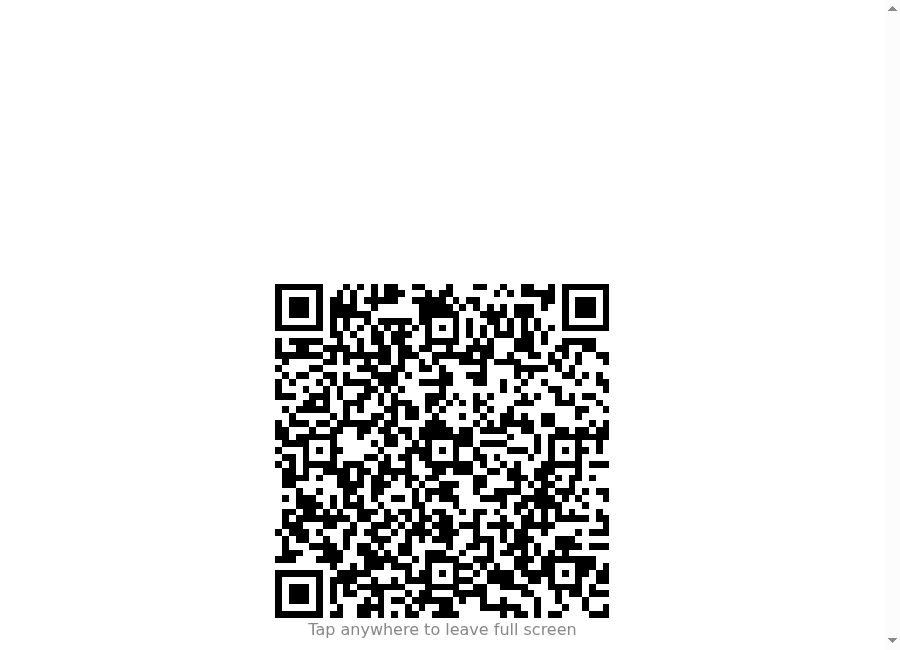
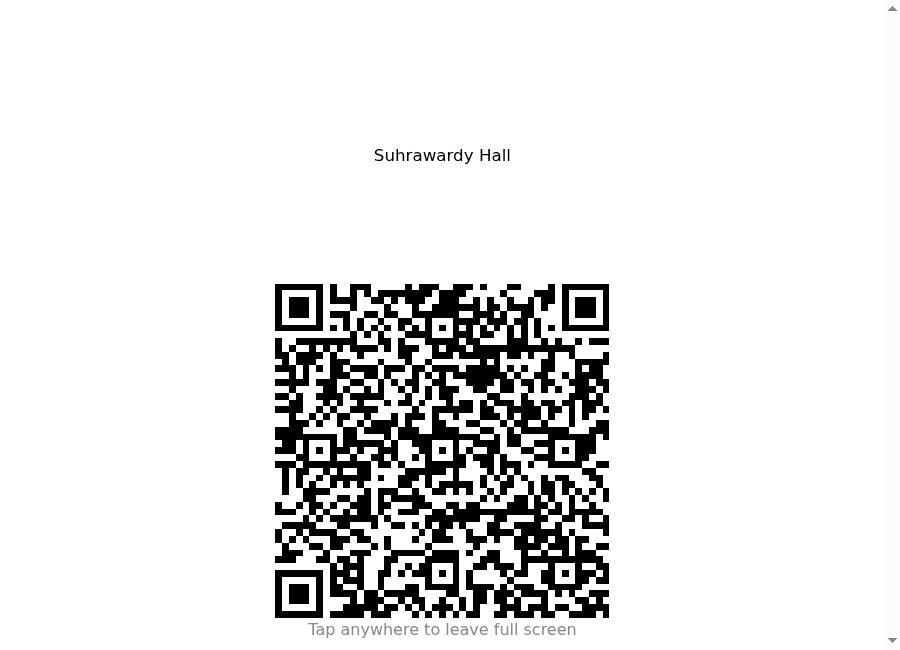
added better documentation

Changed region(s): [[0.28, 0.4308, 0.6844, 0.9538], [0.4044, 0.2154, 0.56, 0.2462]]

diff --git a/badhan-frontend-test/cypress/docs-screenshots/new-feature-new-student-data-collection/registrationWalk.ts b/badhan-frontend-test/cypress/docs-screenshots/new-feature-new-student-data-collection/registrationWalk.ts
@@ -1,10 +1,14 @@
 import {
   answerChoice,
   answerText,
+  confirmLockedHall,
   createDonorViaApi,
   mintTokenViaApi,
+  mintTokenForHallViaApi,
   visitRegistrationPage,
   FeedbackDonor,
+  HALL_ANY,
+  HALL_TITUMIR,
 } from '@support/helpers/feedback';
 
 // Every question in the sequence gets its own documentation screenshot, and only one capture may
@@ -12,9 +16,13 @@ import {
 // step it wants and shoots that one — this module is the walk they share.
 //
 // The counts are answered NON-ZERO on purpose. A zero removes the matching "when did you last
-// donate" step, and the point of these captures is to show all twelve questions, so the two
+// donate" step, and the point of these captures is to show all thirteen questions, so the two
 // conditional ones have to be in the sequence. It also keeps the progress counter consistent from
-// shot to shot: every capture reads "of 12".
+// shot to shot: every capture after the counts reads "of 13".
+//
+// The walk uses a code made for ONE named hall, which is the ordinary case: the hall step then
+// renders as a disabled field showing that hall. Pass `{ allHalls: true }` to walk an "All Halls"
+// code instead, where the same step is a real question.
 
 const STUDENT = {
   name: 'Sadia Afrin',
@@ -41,11 +49,15 @@ const answerDate = (field: string): void => {
 
 // Answers every step BEFORE `stopBefore` and leaves the page sitting on it. Pass 'review' to walk
 // the whole sequence and land on the review screen.
-const ANSWER_STEP: { [field: string]: () => void } = {
+const ANSWER_STEP: { [field: string]: (allHalls: boolean) => void } = {
   name: () => answerText('name', STUDENT.name),
   studentId: () => answerText('studentId', STUDENT.studentId),
   phone: () => answerText('phone', STUDENT.localPhone),
   bloodGroup: () => answerChoice('bloodGroup', STUDENT.bloodGroup),
+  // The one step that renders two ways: a disabled field under an ordinary code, a real question
+  // under an All Halls one.
+  hall: (allHalls: boolean) =>
+    allHalls ? answerChoice('hall', HALL_TITUMIR) : confirmLockedHall('Suhrawardy Hall'),
   donationCount: () => answerText('donationCount', STUDENT.donationCount),
   lastDonation: () => answerDate('lastDonation'),
   plateletDonationCount: () => answerText('plateletDonationCount', STUDENT.plateletDonationCount),
@@ -60,16 +72,25 @@ export const STEP_ORDER = Object.keys(ANSWER_STEP);
 
 // `minterStudentId` only has to be unique across the specs in this folder — it belongs to the donor
 // whose credentials mint the token, not to the student being registered.
-export const walkTo = (stopBefore: string, minterStudentId: string): void => {
+export const walkTo = (
+  stopBefore: string,
+  minterStudentId: string,
+  options: { allHalls?: boolean } = {},
+): void => {
+  const allHalls = options.allHalls === true;
   createDonorViaApi({ name: 'Token Minter', studentId: minterStudentId }, 'minter');
 
   cy.get<FeedbackDonor>('@minter').then((minter) => {
-    mintTokenViaApi(minter.phone, minter.studentId).then((token) => {
-      visitRegistrationPage(token);
+    const token = allHalls
+      ? mintTokenForHallViaApi(minter.phone, minter.studentId, HALL_ANY)
+      : mintTokenViaApi(minter.phone, minter.studentId);
+
+    token.then((t) => {
+      visitRegistrationPage(t);
 
       for (const field of STEP_ORDER) {
         if (field === stopBefore) return;
-        ANSWER_STEP[field]();
+        ANSWER_STEP[field](allHalls);
       }
     });
   });

diff --git a/badhan-frontend-test/cypress/docs-screenshots/new-feature-new-student-data-collection/03b-all-halls-code.cy.ts b/badhan-frontend-test/cypress/docs-screenshots/new-feature-new-student-data-collection/03b-all-halls-code.cy.ts
@@ -5,29 +5,32 @@ import { hideOverlays } from '../hideOverlays';
 
 // Documentation screenshot for docs/blog/new-feature-new-student-data-collection.md.
 // ONE cy.screenshot() per spec file — see 01-sidebar-entry.cy.ts.
+//
+// An All Halls code, generated. Two things are worth photographing together: the line warning that
+// students will be asked which hall they are in, and the sheet itself saying "All Halls" where an
+// ordinary code names a hall.
 
-describe('docs screenshot — a generated registration code', () => {
+describe('docs screenshot — a generated All Halls code', () => {
   const signInPage = new SignInPage();
   const drawer = new NavigationDrawer();
 
-  it('captures the code under its expiry line', () => {
-    // Tall enough for the expiry line and the whole sheet beneath it — the artwork is
-    // A4-proportioned, so it is about 1.4x as tall as the container is wide.
+  it('captures the All Halls notice and the code labelled All Halls', () => {
     cy.viewport(500, 900);
     cy.visit('/');
     signInPage.signIn(AUTH_CREDENTIALS.phone, AUTH_CREDENTIALS.password);
     drawer.goToRegistrationQr();
 
+    cy.get('[data-cy="registrationQrHallSelector"]').click();
+    cy.contains('.v-menu__content.menuable__content__active .v-list-item', 'All Halls').click();
+    cy.get('[data-cy="registrationQrAllHallsNotice"]').should('be.visible');
     cy.get('[data-cy="registrationQrGenerateButton"]').click();
-    // The expiry line sits ABOVE the artwork and the buttons sit below it, so no single frame holds
-    // both. This one is anchored on the expiry; 12-generated-link.cy.ts captures the other end.
-    // The offset keeps the line clear of the fixed app bar; scrollIntoView on its own puts it at
-    // y=0, underneath it, and the capture then shows a half-eaten sentence.
+
+    cy.get('[data-cy="feedbackQrHallLine"]').should('exist');
     cy.get('[data-cy="registrationQrExpiry"]')
       .should('be.visible')
       .scrollIntoView({ offset: { top: -100, left: 0 } });
     hideOverlays();
     cy.wait(1500);
-    cy.screenshot('registration-generated-code', { capture: 'viewport' });
+    cy.screenshot('registration-all-halls-code', { capture: 'viewport' });
   });
 });

diff --git a/badhan-frontend-test/cypress/docs-screenshots/new-feature-new-student-data-collection/02b-hall-dropdown.cy.ts b/badhan-frontend-test/cypress/docs-screenshots/new-feature-new-student-data-collection/02b-hall-dropdown.cy.ts
@@ -1,0 +1,35 @@
+import { SignInPage } from '@pages/SignInPage';
+import { NavigationDrawer } from '@pages/NavigationDrawer';
+import { AUTH_CREDENTIALS } from '@auth/credentials';
+import { hideOverlays } from '../hideOverlays';
+
+// Documentation screenshot for docs/blog/new-feature-new-student-data-collection.md.
+// ONE cy.screenshot() per spec file — see 01-sidebar-entry.cy.ts.
+//
+// The open hall dropdown, which only a super admin sees. Signed in as one here, so the capture
+// shows what the blog describes: every hall, plus one option that is not a hall at all.
+
+describe('docs screenshot — the hall dropdown, open', () => {
+  const signInPage = new SignInPage();
+  const drawer = new NavigationDrawer();
+
+  it('captures the hall list including All Halls', () => {
+    cy.viewport(500, 900);
+    cy.visit('/');
+    signInPage.signIn(AUTH_CREDENTIALS.phone, AUTH_CREDENTIALS.password);
+    drawer.goToRegistrationQr();
+
+    const openMenu = '.v-menu__content.menuable__content__active';
+    cy.get('[data-cy="registrationQrHallSelector"]').should('be.visible').click();
+    cy.get(openMenu).should('be.visible');
+
+    // The menu has its own max-height and scrolls internally, so a taller viewport does not bring
+    // the ninth item into view — All Halls sits below the fold of the list itself. Scroll the list,
+    // not the page. The capture then shows the bottom of it, which is the half that matters here.
+    cy.get(openMenu).scrollTo('bottom');
+    cy.contains(`${openMenu} .v-list-item`, 'All Halls').should('be.visible');
+    hideOverlays();
+    cy.wait(1500);
+    cy.screenshot('registration-hall-dropdown', { capture: 'viewport' });
+  });
+});

diff --git a/badhan-frontend-test/cypress/docs-screenshots/new-feature-new-student-data-collection/q09-lastPlateletDonation.cy.ts b/badhan-frontend-test/cypress/docs-screenshots/new-feature-new-student-data-collection/q09-lastPlateletDonation.cy.ts
@@ -1,13 +1,13 @@
 import { walkTo } from './registrationWalk';
 import { hideOverlays } from '../hideOverlays';
 
-// Documentation screenshot for docs/blog/new-feature-new-student-data-collection.md — question 8
+// Documentation screenshot for docs/blog/new-feature-new-student-data-collection.md — question 9
 // of the registration sequence. Conditional on the platelet count, exactly as lastDonation is on the blood one.
 //
 // ONE cy.screenshot() per spec file — see 01-sidebar-entry.cy.ts. The step is captured as it
 // ARRIVES, before it is answered, which is what a student actually sees.
 
-describe('docs screenshot — registration question 8 (lastPlateletDonation)', () => {
+describe('docs screenshot — registration question 9 (lastPlateletDonation)', () => {
   it('captures the lastPlateletDonation step on its own', () => {
     cy.viewport(393, 700);
     walkTo('lastPlateletDonation', '1905208');
@@ -15,6 +15,6 @@ describe('docs screenshot — registration question 8 (lastPlateletDonation)', (
     cy.get('[data-cy="registrationStep-lastPlateletDonation"]').should('be.visible');
     hideOverlays();
     cy.wait(1500);
-    cy.get('[data-cy="registrationStep-lastPlateletDonation"]').screenshot('registration-q08-lastPlateletDonation');
+    cy.get('[data-cy="registrationStep-lastPlateletDonation"]').screenshot('registration-q09-lastPlateletDonation');
   });
 });

diff --git a/badhan-frontend-test/cypress/docs-screenshots/new-feature-new-student-data-collection/q08-plateletDonationCount.cy.ts b/badhan-frontend-test/cypress/docs-screenshots/new-feature-new-student-data-collection/q08-plateletDonationCount.cy.ts
@@ -1,13 +1,13 @@
 import { walkTo } from './registrationWalk';
 import { hideOverlays } from '../hideOverlays';
 
-// Documentation screenshot for docs/blog/new-feature-new-student-data-collection.md — question 7
+// Documentation screenshot for docs/blog/new-feature-new-student-data-collection.md — question 8
 // of the registration sequence. The platelet half of the pair, with the same Skip-means-zero rule.
 //
 // ONE cy.screenshot() per spec file — see 01-sidebar-entry.cy.ts. The step is captured as it
 // ARRIVES, before it is answered, which is what a student actually sees.
 
-describe('docs screenshot — registration question 7 (plateletDonationCount)', () => {
+describe('docs screenshot — registration question 8 (plateletDonationCount)', () => {
   it('captures the plateletDonationCount step on its own', () => {
     cy.viewport(393, 700);
     walkTo('plateletDonationCount', '1905207');
@@ -15,6 +15,6 @@ describe('docs screenshot — registration question 7 (plateletDonationCount)', 
     cy.get('[data-cy="registrationStep-plateletDonationCount"]').should('be.visible');
     hideOverlays();
     cy.wait(1500);
-    cy.get('[data-cy="registrationStep-plateletDonationCount"]').screenshot('registration-q07-plateletDonationCount');
+    cy.get('[data-cy="registrationStep-plateletDonationCount"]').screenshot('registration-q08-plateletDonationCount');
   });
 });

diff --git a/badhan-frontend-test/cypress/docs-screenshots/new-feature-new-student-data-collection/q06-donationCount.cy.ts b/badhan-frontend-test/cypress/docs-screenshots/new-feature-new-student-data-collection/q06-donationCount.cy.ts
@@ -1,13 +1,13 @@
 import { walkTo } from './registrationWalk';
 import { hideOverlays } from '../hideOverlays';
 
-// Documentation screenshot for docs/blog/new-feature-new-student-data-collection.md — question 5
+// Documentation screenshot for docs/blog/new-feature-new-student-data-collection.md — question 6
 // of the registration sequence. Optional, and a Skip here sends zero — which also removes the date question that follows.
 //
 // ONE cy.screenshot() per spec file — see 01-sidebar-entry.cy.ts. The step is captured as it
 // ARRIVES, before it is answered, which is what a student actually sees.
 
-describe('docs screenshot — registration question 5 (donationCount)', () => {
+describe('docs screenshot — registration question 6 (donationCount)', () => {
   it('captures the donationCount step on its own', () => {
     cy.viewport(393, 700);
     walkTo('donationCount', '1905205');
@@ -15,6 +15,6 @@ describe('docs screenshot — registration question 5 (donationCount)', () => {
     cy.get('[data-cy="registrationStep-donationCount"]').should('be.visible');
     hideOverlays();
     cy.wait(1500);
-    cy.get('[data-cy="registrationStep-donationCount"]').screenshot('registration-q05-donationCount');
+    cy.get('[data-cy="registrationStep-donationCount"]').screenshot('registration-q06-donationCount');
   });
 });

diff --git a/badhan-frontend-test/cypress/docs-screenshots/new-feature-new-student-data-collection/q12-availableToAll.cy.ts b/badhan-frontend-test/cypress/docs-screenshots/new-feature-new-student-data-collection/q12-availableToAll.cy.ts
@@ -1,13 +1,13 @@
 import { walkTo } from './registrationWalk';
 import { hideOverlays } from '../hideOverlays';
 
-// Documentation screenshot for docs/blog/new-feature-new-student-data-collection.md — question 11
+// Documentation screenshot for docs/blog/new-feature-new-student-data-collection.md — question 12
 // of the registration sequence. A yes/no choice, with one line explaining what saying yes means.
 //
 // ONE cy.screenshot() per spec file — see 01-sidebar-entry.cy.ts. The step is captured as it
 // ARRIVES, before it is answered, which is what a student actually sees.
 
-describe('docs screenshot — registration question 11 (availableToAll)', () => {
+describe('docs screenshot — registration question 12 (availableToAll)', () => {
   it('captures the availableToAll step on its own', () => {
     cy.viewport(393, 700);
     walkTo('availableToAll', '1905211');
@@ -15,6 +15,6 @@ describe('docs screenshot — registration question 11 (availableToAll)', () => 
     cy.get('[data-cy="registrationStep-availableToAll"]').should('be.visible');
     hideOverlays();
     cy.wait(1500);
-    cy.get('[data-cy="registrationStep-availableToAll"]').screenshot('registration-q11-availableToAll');
+    cy.get('[data-cy="registrationStep-availableToAll"]').screenshot('registration-q12-availableToAll');
   });
 });

diff --git a/badhan-frontend-test/cypress/docs-screenshots/new-feature-new-student-data-collection/q07-lastDonation.cy.ts b/badhan-frontend-test/cypress/docs-screenshots/new-feature-new-student-data-collection/q07-lastDonation.cy.ts
@@ -1,13 +1,13 @@
 import { walkTo } from './registrationWalk';
 import { hideOverlays } from '../hideOverlays';
 
-// Documentation screenshot for docs/blog/new-feature-new-student-data-collection.md — question 6
+// Documentation screenshot for docs/blog/new-feature-new-student-data-collection.md — question 7
 // of the registration sequence. Conditional: it only appears because the previous count was answered non-zero.
 //
 // ONE cy.screenshot() per spec file — see 01-sidebar-entry.cy.ts. The step is captured as it
 // ARRIVES, before it is answered, which is what a student actually sees.
 
-describe('docs screenshot — registration question 6 (lastDonation)', () => {
+describe('docs screenshot — registration question 7 (lastDonation)', () => {
   it('captures the lastDonation step on its own', () => {
     cy.viewport(393, 700);
     walkTo('lastDonation', '1905206');
@@ -15,6 +15,6 @@ describe('docs screenshot — registration question 6 (lastDonation)', () => {
     cy.get('[data-cy="registrationStep-lastDonation"]').should('be.visible');
     hideOverlays();
     cy.wait(1500);
-    cy.get('[data-cy="registrationStep-lastDonation"]').screenshot('registration-q06-lastDonation');
+    cy.get('[data-cy="registrationStep-lastDonation"]').screenshot('registration-q07-lastDonation');
   });
 });

diff --git a/badhan-frontend-test/cypress/docs-screenshots/new-feature-new-student-data-collection/q10-roomNumber.cy.ts b/badhan-frontend-test/cypress/docs-screenshots/new-feature-new-student-data-collection/q10-roomNumber.cy.ts
@@ -1,13 +1,13 @@
 import { walkTo } from './registrationWalk';
 import { hideOverlays } from '../hideOverlays';
 
-// Documentation screenshot for docs/blog/new-feature-new-student-data-collection.md — question 9
+// Documentation screenshot for docs/blog/new-feature-new-student-data-collection.md — question 10
 // of the registration sequence. Optional, so it carries a Skip control of its own rather than an empty Next.
 //
 // ONE cy.screenshot() per spec file — see 01-sidebar-entry.cy.ts. The step is captured as it
 // ARRIVES, before it is answered, which is what a student actually sees.
 
-describe('docs screenshot — registration question 9 (roomNumber)', () => {
+describe('docs screenshot — registration question 10 (roomNumber)', () => {
   it('captures the roomNumber step on its own', () => {
     cy.viewport(393, 700);
     walkTo('roomNumber', '1905209');
@@ -15,6 +15,6 @@ describe('docs screenshot — registration question 9 (roomNumber)', () => {
     cy.get('[data-cy="registrationStep-roomNumber"]').should('be.visible');
     hideOverlays();
     cy.wait(1500);
-    cy.get('[data-cy="registrationStep-roomNumber"]').screenshot('registration-q09-roomNumber');
+    cy.get('[data-cy="registrationStep-roomNumber"]').screenshot('registration-q10-roomNumber');
   });
 });

diff --git a/badhan-frontend-test/cypress/docs-screenshots/new-feature-new-student-data-collection/q13-comment.cy.ts b/badhan-frontend-test/cypress/docs-screenshots/new-feature-new-student-data-collection/q13-comment.cy.ts
@@ -1,13 +1,13 @@
 import { walkTo } from './registrationWalk';
 import { hideOverlays } from '../hideOverlays';
 
-// Documentation screenshot for docs/blog/new-feature-new-student-data-collection.md — question 12
+// Documentation screenshot for docs/blog/new-feature-new-student-data-collection.md — question 13
 // of the registration sequence. The catch-all, and where a student writes which hall they actually live in.
 //
 // ONE cy.screenshot() per spec file — see 01-sidebar-entry.cy.ts. The step is captured as it
 // ARRIVES, before it is answered, which is what a student actually sees.
 
-describe('docs screenshot — registration question 12 (comment)', () => {
+describe('docs screenshot — registration question 13 (comment)', () => {
   it('captures the comment step on its own', () => {
     cy.viewport(393, 700);
     walkTo('comment', '1905212');
@@ -15,6 +15,6 @@ describe('docs screenshot — registration question 12 (comment)', () => {
     cy.get('[data-cy="registrationStep-comment"]').should('be.visible');
     hideOverlays();
     cy.wait(1500);
-    cy.get('[data-cy="registrationStep-comment"]').screenshot('registration-q12-comment');
+    cy.get('[data-cy="registrationStep-comment"]').screenshot('registration-q13-comment');
   });
 });

diff --git a/badhan-frontend-test/cypress/docs-screenshots/new-feature-new-student-data-collection/08-review-screen.cy.ts b/badhan-frontend-test/cypress/docs-screenshots/new-feature-new-student-data-collection/08-review-screen.cy.ts
@@ -9,10 +9,13 @@ import { hideOverlays } from '../hideOverlays';
 
 describe('docs screenshot — the review screen', () => {
   it('captures every answer, the hall line and the Submit button', () => {
-    // Wide enough that no question wraps and tall enough for all twelve rows plus Submit: an
-    // element taller than the viewport gets clipped, not stitched, so the frame has to fit it.
-    cy.viewport(1000, 1200);
-    // 'review' is not a step, so the walk answers all twelve questions and lands here — including
+    // Wide enough that no question wraps. It is NOT tall enough for all thirteen rows and cannot
+    // be: an element capture is capped at roughly the headless window height whatever the viewport
+    // says, and it clips rather than stitches. So this frame carries the top — the heading, the
+    // hall line and the first answers — and 08b-review-submit.cy.ts carries the end of the table
+    // and the buttons. The two overlap by a few rows on purpose.
+    cy.viewport(1000, 1300);
+    // 'review' is not a step, so the walk answers all thirteen questions and lands here — including
     // the two conditional dates, so the screen shows the full sequence rather than a short one.
     walkTo('review', '1905221');
 

diff --git a/badhan-frontend-test/cypress/docs-screenshots/new-feature-new-student-data-collection/q11-address.cy.ts b/badhan-frontend-test/cypress/docs-screenshots/new-feature-new-student-data-collection/q11-address.cy.ts
@@ -1,13 +1,13 @@
 import { walkTo } from './registrationWalk';
 import { hideOverlays } from '../hideOverlays';
 
-// Documentation screenshot for docs/blog/new-feature-new-student-data-collection.md — question 10
+// Documentation screenshot for docs/blog/new-feature-new-student-data-collection.md — question 11
 // of the registration sequence. Optional in the same way.
 //
 // ONE cy.screenshot() per spec file — see 01-sidebar-entry.cy.ts. The step is captured as it
 // ARRIVES, before it is answered, which is what a student actually sees.
 
-describe('docs screenshot — registration question 10 (address)', () => {
+describe('docs screenshot — registration question 11 (address)', () => {
   it('captures the address step on its own', () => {
     cy.viewport(393, 700);
     walkTo('address', '1905210');
@@ -15,6 +15,6 @@ describe('docs screenshot — registration question 10 (address)', () => {
     cy.get('[data-cy="registrationStep-address"]').should('be.visible');
     hideOverlays();
     cy.wait(1500);
-    cy.get('[data-cy="registrationStep-address"]').screenshot('registration-q10-address');
+    cy.get('[data-cy="registrationStep-address"]').screenshot('registration-q11-address');
   });
 });
